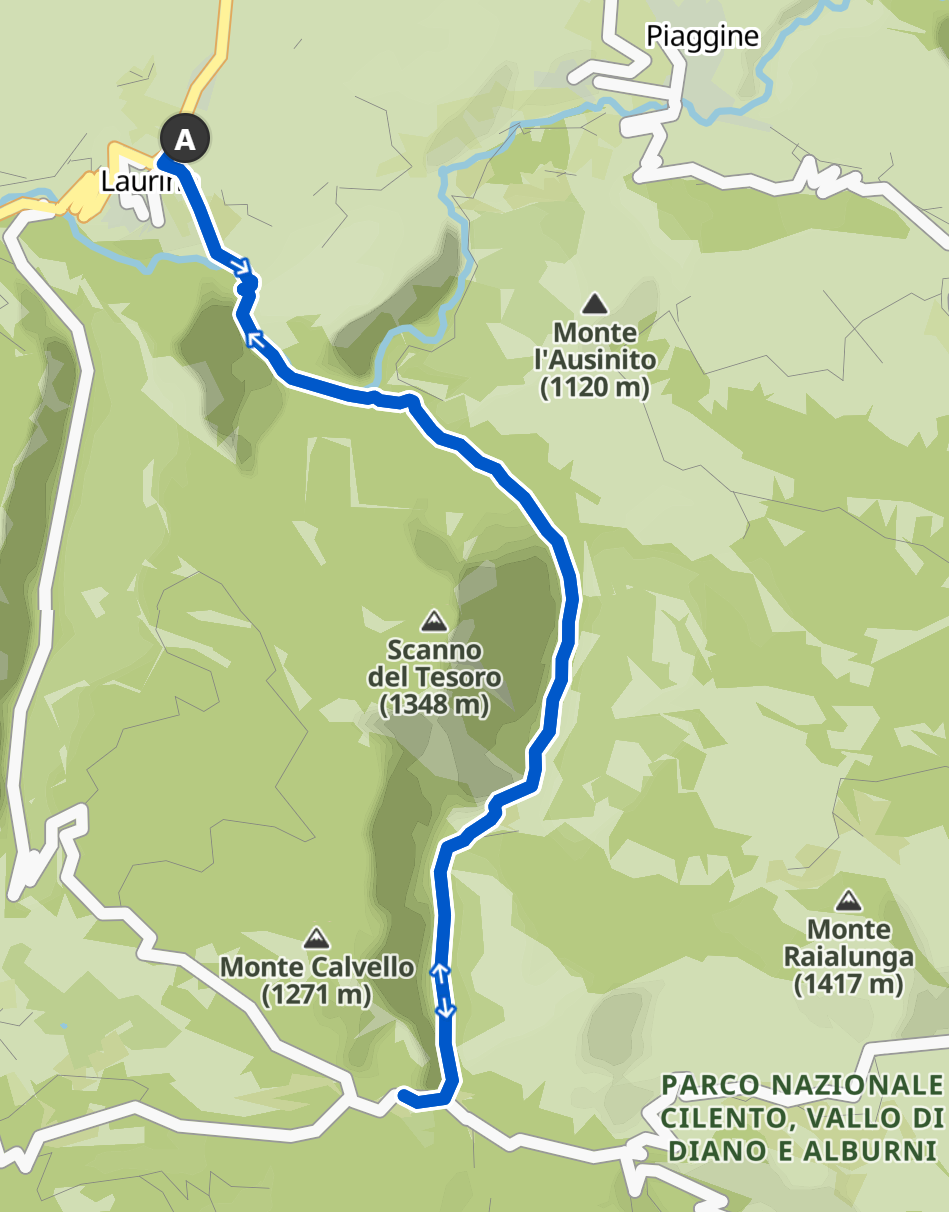
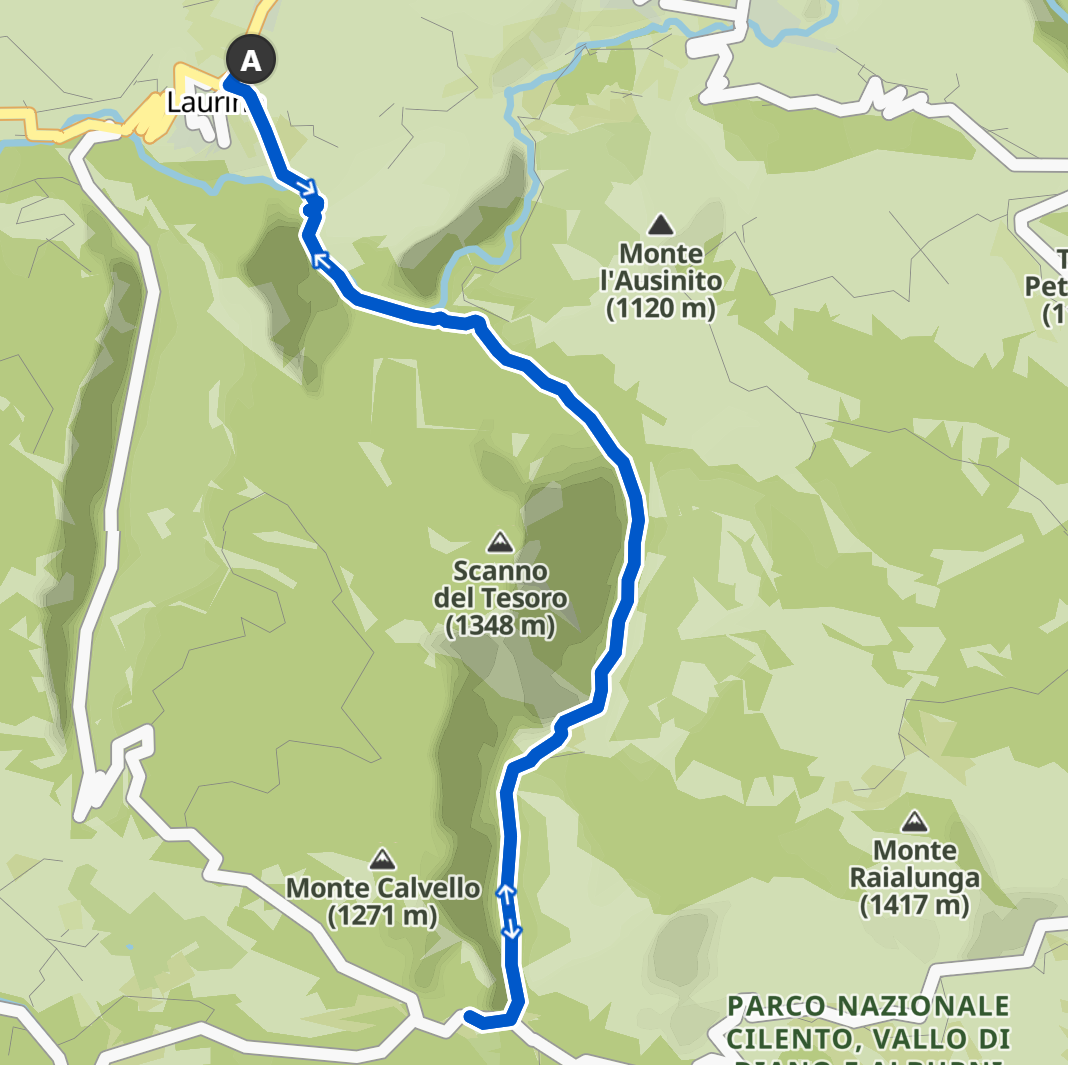
sdsdsfd

diff --git a/index.html b/index.html
@@ -236,7 +236,7 @@
 															<div style="padding-top:20px;">
 															    <p style="margin-bottom:1em;">Due percorsi di treccking consentono di scoprire le meraviglie del cilento interno:</p>
 															   	<ul class="check-list"> 
-															      <li> <a href="#path01">Percorso 1: Gorgonero – Chalet Nicolett</a>														      
+															      <li> <a href="#path01">Percorso 1: Gorgonero – Chalet Nicoletti</a>														      
 																  </li>
 															      <li><a href="#path02">Percorso 2: Ponte Stato – Azienda Agricola Ausòno</a>
 																  </li>
@@ -282,19 +282,9 @@
 													<!-- Feature -->
 														<section class="box feature">
 															<div class="image featured-full"><img src="images/pack01.jpeg" alt="" /></div>
-															<!--<h3>Strutture convenzionate</h3>
-															<div style="padding-top:20px;">
-															    <p style="margin-bottom:1em;">Le strutture convenzionate che consentono sia il pernottamento
-																che la degustazione dell'eno-gastronomia tipicamente cilentana e non solo, sono due:</p>
-															   	<ul class="check-list"> 
-															      <li><a target="_blank" href="https://www.facebook.com/chaletnicoletti/">Chalet Nicoletti</a>	
-																	
-																  </li>
-															      <li><a target="_blank" href="https://www.facebook.com/agricolaausono/">Azienda Agricola Ausòno</a>
-																	
-																  </li>
-															    </ul>
-															  </div>-->
+															<article class="box post-summary">
+																<a href="#contatti" class="button">Prenota Ora!</a>
+															</article>
 														</section>
 
 												</div>
@@ -303,7 +293,9 @@
 													<!-- Feature -->
 														<section class="box feature">
 															<div class="image featured-full"><img src="images/pack02.jpeg" alt="" /></div>
-															
+															<article class="box post-summary">
+																<a href="#contatti" class="button">Prenota Ora!</a>
+															</article>
 														</section>
 
 												</div>
@@ -313,7 +305,7 @@
 														<section class="box feature">
 															<div class="image featured-full"><img src="images/pack03.jpeg" alt="" /></div>
 															<article class="box post-summary">
-																<a href="#contatti" class="button">Richiedi Informazioni</a>
+																<a href="#contatti" class="button">Prenota Ora!</a>
 															</article>
 														</section>
 
@@ -334,7 +326,7 @@
 
 								<!-- Blog -->
 									<section id="trackSection" class="box blog">
-										<h2 class="major"><span>Percorso di Treccking Number ONE</span></h2>
+										<h2 class="major"><span>Percorso UNO</span></h2>
 										<div>
 											<div class="row">
 												<div class="col-9 col-12-medium">
@@ -354,8 +346,9 @@
 																</header>
 																<a target="_blank" href="https://www.komoot.it/tour/1062901121?ref=aso&share_token=aEwhEuNtSJ81X5QudoF6nXXUJVt1Ic11LNaUUCDRCDehz9ES11">
 																	<div class="image featured-full tooltipMain">
-																		<img src="images/path01.png" alt="Visualizza su KOMOOT" />
-																		<span class="tooltiptextMain">Visualizza percorso su KOMOOT</span>
+																		<img class="imageFull" src="images/path01.png" alt="Visualizza su KOMOOT" />
+																		<img class="imageSmall" src="images/path01_small.png" alt="Visualizza su KOMOOT" />
+																		<span class="tooltiptextMain">Visualizza percorso completo su KOMOOT.IT</span>
 																	</div>
 																	
 																</a>
@@ -387,12 +380,12 @@
 													<div class="swiper1 swiper-container swiper-container--timeline">
 													  <div class="swiper-wrapper">
 														<!-- Slides -->
-														<div class="swiper-slide">
+														<div class="swiper-slide img01">
 															<div class="image featured-medium">
 																<img src="images/img01.jpeg" alt="" />
 															</div>
 															
-															<div style="padding-top:20px;" class="box feature">
+															<div style="padding-top:20px;" class="box feature infos">
 																<span class="title">1. Ritrovo presso ex convento "Sant'Antonio"</span>
 																<div style="margin:10px;padding:10px">
 																	<p style="margin-bottom:1em;">La quota di partecipazione include:</p>
@@ -415,10 +408,10 @@
 															<div class="image featured-medium">
 																<img src="images/img02.jpeg" alt="" />
 															</div>
-															<span class="title">2. Partenza da Gorgonero</span>
+															<span class="title infos">2. Partenza da Gorgonero</span>
 														</div>
 														<div class="swiper-slide">
-															<span class="title">Scatto lungo il percorso</span>
+															<span class="title infos">Scatto lungo il percorso</span>
 															<div class="image featured-medium">
 																<img src="images/img03.jpeg" alt="" />
 															</div>
@@ -429,7 +422,7 @@
 																<img src="images/img04.jpeg" alt="" />
 															</div>
 															
-															<div style="padding-top:20px;" class="box feature">
+															<div style="padding-top:20px;" class="box feature infos">
 																<span class="title">3. Arrivo presso la struttura convenzionata "Chalet Nicoletti"</span>
 																<div style="margin:10px;padding:10px">
 																	<p style="margin-bottom:1em;">Il Pranzo include:</p>
@@ -451,7 +444,7 @@
 																<img src="images/img05.jpeg" alt="" />
 															</div>
 															
-															<div style="padding-top:20px;" class="box feature">
+															<div style="padding-top:20px;" class="box feature infos">
 																<span class="title">4. Partenza dallo "Chalet Nicoletti" e rientro ex convento "Sant'Antonio"</span>
 																<div style="margin:10px;padding:10px">
 																	<p style="margin-bottom:1em;">Per il rientro si usa il medesimo percorso.</p>
@@ -459,7 +452,7 @@
 															</div>
 														</div>
 														<div class="swiper-slide">
-															<span class="title">Scatto lungo il percorso</span>
+															<span class="title infos">Scatto lungo il percorso</span>
 															<div class="image featured-medium">
 																<img src="images/img06.jpeg" alt="" />
 															</div>
@@ -530,7 +523,7 @@
 										
 									</section>
 									<section id="trackSection" class="box blog">
-										<h2 class="major"><span>Percorso di Treccking Number TWO</span></h2>
+										<h2 class="major"><span>Percorso DUE</span></h2>
 										<div>
 											<div class="row">
 												<div class="col-9 col-12-medium">
@@ -550,9 +543,9 @@
 																</header>
 																<a target="_blank" href="https://www.komoot.it/tour/1062881069?ref=aso&share_token=aZUfBmDtZyF1oFutYelfNIfPAp4T98xsbw3ZOsCjT627O1vrm7">
 																	<div class="image featured-full tooltipMain">
-																	
-																		<img src="images/path02.png" alt="Visualizza su KOMOOT" />
-																		<span class="tooltiptextMain">Visualizza percorso su KOMOOT</span>
+																		<img class="imageSmall" src="images/path02_small.png" alt="Visualizza su KOMOOT" />
+																		<img class="imageFull" src="images/path02.png" alt="Visualizza su KOMOOT" />
+																		<span class="tooltiptextMain">Visualizza percorso completo su KOMOOT.IT</span>
 																	</div>
 																</a>
 																
@@ -590,7 +583,7 @@
 																<img src="images/img01.jpeg" alt="" />
 															</div>
 															
-															<div style="padding-top:20px;" class="box feature">
+															<div style="padding-top:20px;" class="box feature infos">
 																<span class="title">1. Ritrovo presso ex convento "Sant'Antonio"</span>
 																<div style="margin:10px;padding:10px">
 																	<p style="margin-bottom:1em;">La quota di partecipazione include:</p>
@@ -613,10 +606,10 @@
 															<div class="image featured-medium">
 																<img src="images/img02.jpeg" alt="" />
 															</div>
-															<span class="title">2. Partenza da "Ponte Stato"</span>
+															<span class="title infos">2. Partenza da "Ponte Stato"</span>
 														</div>
 														<div class="swiper-slide">
-															<span class="title">Scatto lungo il percorso</span>
+															<span class="title infos">Scatto lungo il percorso</span>
 															<div class="image featured-medium">
 																<img src="images/img03.jpeg" alt="" />
 															</div>
@@ -626,7 +619,7 @@
 																<img src="images/img04.jpeg" alt="" />
 															</div>
 															
-															<div style="padding-top:20px;" class="box feature">
+															<div style="padding-top:20px;" class="box feature infos">
 																<span class="title">3. Arrivo presso la struttura convenzionata "Azienda Agricola Ausòno"</span>
 																<div style="margin:10px;padding:10px">
 																	<p style="margin-bottom:1em;">Il Pranzo include:</p>
@@ -648,7 +641,7 @@
 																<img src="images/img05.jpeg" alt="" />
 															</div>
 															
-															<div style="padding-top:20px;" class="box feature">
+															<div style="padding-top:20px;" class="box feature infos">
 																<span class="title">4. Partenza dall'"Azienda Agricola Ausòno" e rientro presso ex convento "Sant'Antonio"</span>
 																<div style="margin:10px;padding:10px">
 																	<p style="margin-bottom:1em;">Per il rientro si usa il medesimo percorso.</p>
@@ -656,7 +649,7 @@
 															</div>
 														</div>
 														<div class="swiper-slide">
-															<span class="title">Scatto lungo il percorso</span>
+															<span class="title infos">Scatto lungo il percorso</span>
 															<div class="image featured-medium">
 																<img src="images/img06.jpeg" alt="" />
 															</div>

diff --git a/assets/css/main.css b/assets/css/main.css
@@ -77,6 +77,8 @@ input, select, textarea {
 	.set-pointer{
 		cursor: pointer;
 	}
+	
+	
 
 	html {
 		box-sizing: border-box;
@@ -201,7 +203,7 @@ input, select, textarea {
 /* Section/Article */
 
 	section, article {
-		margin-bottom: 6em;
+		margin-bottom: 2em;
 	}
 
 		section > :last-child, section:last-child, article > :last-child, article:last-child {
@@ -318,6 +320,8 @@ input, select, textarea {
 			width: 50%;
 			margin: 0 0 2em 0;
 		}
+		
+	
 
 		.row > * {
 			box-sizing: border-box;
@@ -1306,6 +1310,8 @@ input, select, textarea {
 
 		@media screen and (max-width: 736px) {
 
+	
+			
 			.row {
 				display: flex;
 				flex-wrap: wrap;
@@ -1573,6 +1579,8 @@ input, select, textarea {
 
 		@media screen and (max-width: 360px) {
 
+			
+			
 			.row {
 				display: flex;
 				flex-wrap: wrap;
@@ -1874,7 +1882,6 @@ input, select, textarea {
 		
 		
 		
-		
 		.image.featured-medium img{
 			object-fit: contain;
 		}
@@ -1884,7 +1891,7 @@ input, select, textarea {
 		.image.featured-full {
 			display: flex-inline;
 			width: 100%;
-			margin: 0 0 2em 0;
+			margin: 0 0 1em 0;
 		}
 		
 		.image.featured-full span {
@@ -1917,6 +1924,24 @@ input, select, textarea {
 				margin: 0 auto;
 				width: auto;
 			}
+			
+		img.imageSmall {
+			 display: none;
+			 
+		}
+		
+		@media screen and (max-width: 736px) {
+
+	
+			img.imageSmall {
+				 display: block;
+				 
+			}
+			
+			img.imageFull{
+				display: none;
+			}
+		}
 
 /* Button */
 
@@ -2383,6 +2408,20 @@ input, select, textarea {
 		margin: 2em;
 
 	}
+	
+	
+	
+	@media screen and (max-width: 736px) {
+
+	
+			.infos{
+				background: linear-gradient(to bottom, rgb(255 255 255 / 50%), rgb(255 255 255 / 50%),rgb(245 241 274 / 70%),white);
+    			border-radius: 16px;
+		
+			}
+			
+			
+		}
 	
 
 	.box.post header {
@@ -3299,7 +3338,7 @@ input, select, textarea {
   list-style-type: none;
   padding-left: 1.5rem;
   margin-bottom: 0.5rem;
-  text-align: justify;
+  text-align: left;
   
 }
 

diff --git a/assets/css/timeline.css b/assets/css/timeline.css
@@ -4,7 +4,6 @@ div.containerTimeline::-webkit-scrollbar {
 
 .swiper-container-wrapper--timeline .swiper-slide {
   display: flex;
-  background: #fff;
   min-height: 300px;
   align-items: center;
   justify-content: center;
@@ -12,16 +11,23 @@ div.containerTimeline::-webkit-scrollbar {
   background: #eee;
   
 }
+
+.img01{
+   background-image: url(images/img01.jpeg);
+  
+}
+
 .swiper-container-wrapper--timeline .swiper-slide .containerTimeline {
   padding: 0;
   width: 100%;
-  
+
 }
 
 .removeOverflow{
   overflow:unset;
   
 }
+
 
 .swiper-container-wrapper--timeline .swiper-slide .title {
   font-size: 18px;
